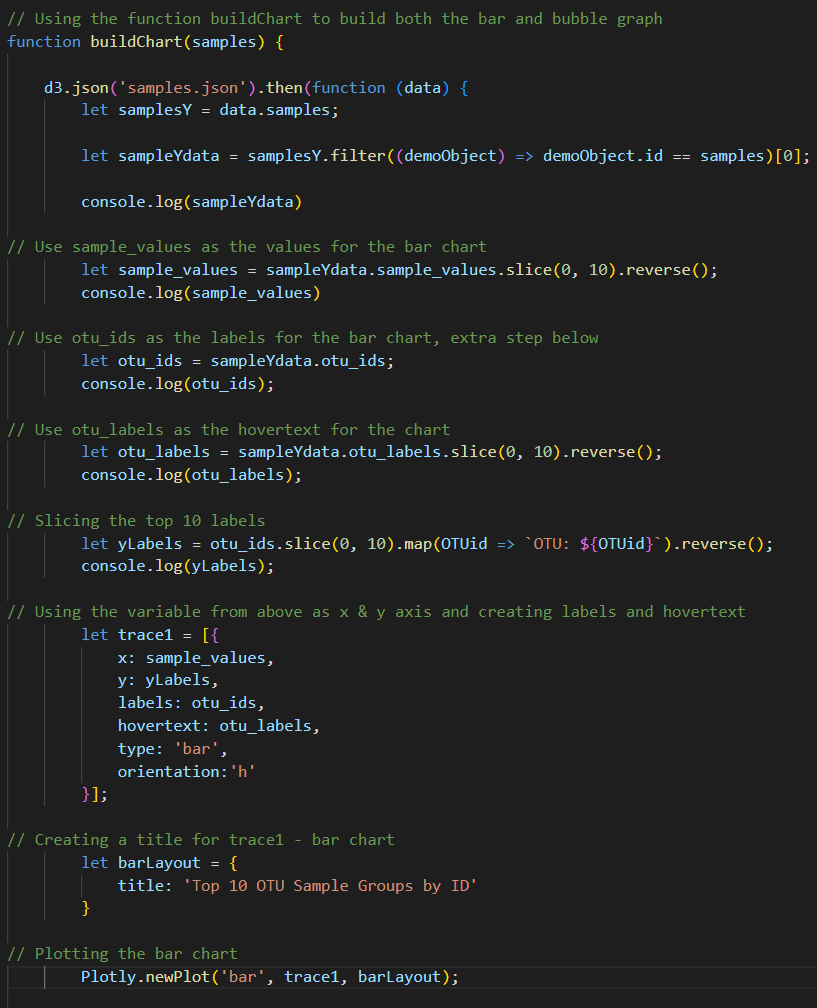
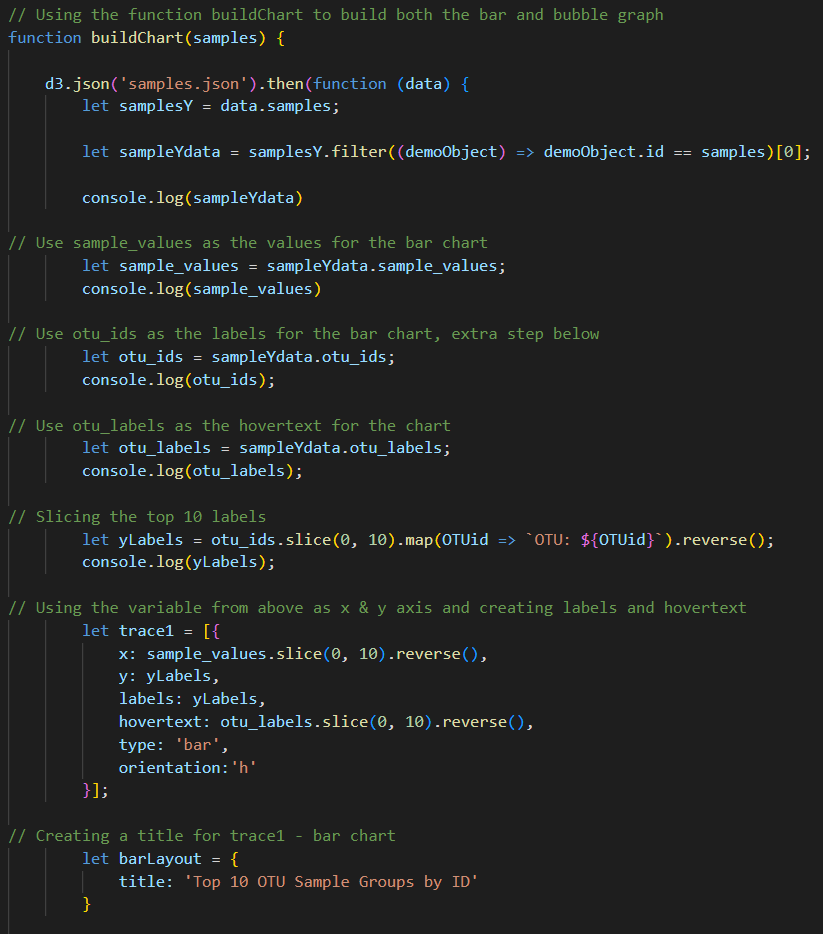
adding

diff --git a/static/js/app.js b/static/js/app.js
@@ -4,127 +4,127 @@
 // Creating an initial function to form all charts and data upon entering page and using the first instance
 function init() {
 
-// Creating a promise to read the data I will be using
-    let Promise = d3.json('samples.json');
-
-    console.log('Data Promise:', Promise)
-
-// Reading the json file and grabbing the names to put into the dropdown menu and selecting the dropdown menu from html - #selDataset
-    d3.json('samples.json').then(function (data) {
-
-        let dropdownMenu = d3.select('#selDataset');
-        let names = data.names;
-        names.forEach((name) => {
-            dropdownMenu.append('option').text(name).property('value', name);        
+    // Creating a promise to read the data I will be using
+        let Promise = d3.json('samples.json');
+    
+        console.log('Data Promise:', Promise)
+    
+    // Reading the json file and grabbing the names to put into the dropdown menu and selecting the dropdown menu from html - #selDataset
+        d3.json('samples.json').then(function (data) {
+    
+            let dropdownMenu = d3.select('#selDataset');
+            let names = data.names;
+            names.forEach((name) => {
+                dropdownMenu.append('option').text(name).property('value', name);        
+            });
+    
+    // Using the first sample in the list and creating initial charts and data
+            let beginSample = names[0];
+    
+            buildChart(beginSample);
+            buildDemo(beginSample);
+            buildGuage(beginSample)
         });
-
-// Using the first sample in the list and creating initial charts and data
-        let beginSample = names[0];
-
-        buildChart(beginSample);
-        buildDemo(beginSample);
-        buildGuage(beginSample)
-    });
-}
-
-// Creating a function to change charts upon #selDataset dropdown change
-function optionChanged(sampleX) {
-    buildChart(sampleX);
-    buildDemo(sampleX);
-    buildGuage(sampleX)
-}
-
-init();
-
-// Creating a function to build the Demographic Info box
-function buildDemo(samples) {
-
-    d3.json('samples.json').then((data) => {
-
-// Selecting the #sample-metadat html to update the information and grabbing the metadata
-        let demoBox = d3.select('#sample-metadata');
-        let demoData = data.metadata;
-        let information = demoData.filter(demoObject => demoObject.id == samples)[0];
-
-// Clearing out data on change
-        demoBox.html("");
-
-// Entering the metadate into the info box, size h4, changing the KEY to uppercase and returning all labels and metadata for the ID
-        Object.entries(information).forEach(([key, type]) => {
-            demoBox.append('h4').text(`${key.toUpperCase()}: ${type}`);
-
+    }
+    
+    // Creating a function to change charts upon #selDataset dropdown change
+    function optionChanged(sampleX) {
+        buildChart(sampleX);
+        buildDemo(sampleX);
+        buildGuage(sampleX)
+    }
+    
+    init();
+    
+    // Creating a function to build the Demographic Info box
+    function buildDemo(samples) {
+    
+        d3.json('samples.json').then((data) => {
+    
+    // Selecting the #sample-metadat html to update the information and grabbing the metadata
+            let demoBox = d3.select('#sample-metadata');
+            let demoData = data.metadata;
+            let information = demoData.filter(demoObject => demoObject.id == samples)[0];
+    
+    // Clearing out data on change
+            demoBox.html("");
+    
+    // Entering the metadate into the info box, size h4, changing the KEY to uppercase and returning all labels and metadata for the ID
+            Object.entries(information).forEach(([key, type]) => {
+                demoBox.append('h4').text(`${key.toUpperCase()}: ${type}`);
+    
+            });
         });
-    });
-}
-
-// Using the function buildChart to build both the bar and bubble graph
-function buildChart(samples) {
-
-    d3.json('samples.json').then(function (data) {
-        let samplesY = data.samples;
-        
-        let sampleYdata = samplesY.filter((demoObject) => demoObject.id == samples)[0]; 
-
-        console.log(sampleYdata)
-
-// Use sample_values as the values for the bar chart
-        let sample_values = sampleYdata.sample_values.slice(0, 10).reverse();
-        console.log(sample_values)
-
-// Use otu_ids as the labels for the bar chart, extra step below
-        let otu_ids = sampleYdata.otu_ids;
-        console.log(otu_ids);
-
-// Use otu_labels as the hovertext for the chart
-        let otu_labels = sampleYdata.otu_labels.slice(0, 10).reverse();
-        console.log(otu_labels);
-
-// Slicing the top 10 labels 
-        let yLabels = otu_ids.slice(0, 10).map(OTUid => `OTU: ${OTUid}`).reverse();
-        console.log(yLabels);
-
-// Using the variable from above as x & y axis and creating labels and hovertext
-        let trace1 = [{
-            x: sample_values,
-            y: yLabels,
-            labels: otu_ids,
-            hovertext: otu_labels,
-            type: 'bar',
-            orientation:'h'
-        }];
-
-// Creating a title for trace1 - bar chart
-        let barLayout = {
-            title: 'Top 10 OTU Sample Groups by ID'
-        }
-
-// Plotting the bar chart
-        Plotly.newPlot('bar', trace1, barLayout);
-
-// Using the same data from above to plot the bubble chart
-        let trace2 = [{
-            x: otu_ids,
-            y: sample_values,
-            labels: otu_labels,
-            mode: 'markers',
-            marker: {
-                size: sample_values,
-                color: otu_ids,
-                colorscale:'Greens'
-            }
+    }
+    
+    // Using the function buildChart to build both the bar and bubble graph
+    function buildChart(samples) {
+    
+        d3.json('samples.json').then(function (data) {
+            let samplesY = data.samples;
             
-        }];
-
-// Creating title for the bubble chart
-        let bubbleLayout = {
-            title: 'Bacteria Cultures Per Sample',
-        }
-
-// Plotting the bubble chart
-        Plotly.newPlot('bubble',trace2, bubbleLayout);
-
-    });
-}
+            let sampleYdata = samplesY.filter((demoObject) => demoObject.id == samples)[0]; 
+    
+            console.log(sampleYdata)
+    
+    // Use sample_values as the values for the bar chart
+            let sample_values = sampleYdata.sample_values;
+            console.log(sample_values)
+    
+    // Use otu_ids as the labels for the bar chart, extra step below
+            let otu_ids = sampleYdata.otu_ids;
+            console.log(otu_ids);
+    
+    // Use otu_labels as the hovertext for the chart
+            let otu_labels = sampleYdata.otu_labels;
+            console.log(otu_labels);
+    
+    // Slicing the top 10 labels 
+            let yLabels = otu_ids.slice(0, 10).map(OTUid => `OTU: ${OTUid}`).reverse();
+            console.log(yLabels);
+    
+    // Using the variable from above as x & y axis and creating labels and hovertext
+            let trace1 = [{
+                x: sample_values.slice(0, 10).reverse(),
+                y: yLabels,
+                labels: yLabels,
+                hovertext: otu_labels.slice(0, 10).reverse(),
+                type: 'bar',
+                orientation:'h'
+            }];
+    
+    // Creating a title for trace1 - bar chart
+            let barLayout = {
+                title: 'Top 10 OTU Sample Groups by ID'
+            }
+    
+    // Plotting the bar chart
+            Plotly.newPlot('bar', trace1, barLayout);
+    
+    // Using the same data from above to plot the bubble chart for bacteria cultures per sample ID
+            let trace2 = [{
+                x: otu_ids,
+                y: sample_values,
+                labels: otu_labels,
+                mode: 'markers',
+                marker: {
+                    size: sample_values,
+                    color: otu_ids,
+                    colorscale:'Greens'
+                }
+                
+            }];
+    
+    // Creating title for the bubble chart
+            let bubbleLayout = {
+                title: 'Bacteria Cultures Per Sample ID',
+            }
+    
+    // Plotting the bubble chart
+            Plotly.newPlot('bubble',trace2, bubbleLayout);
+    
+        });
+    }
 
 
 
